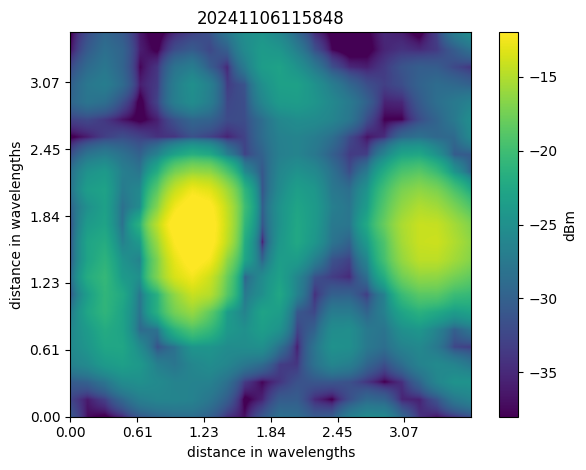
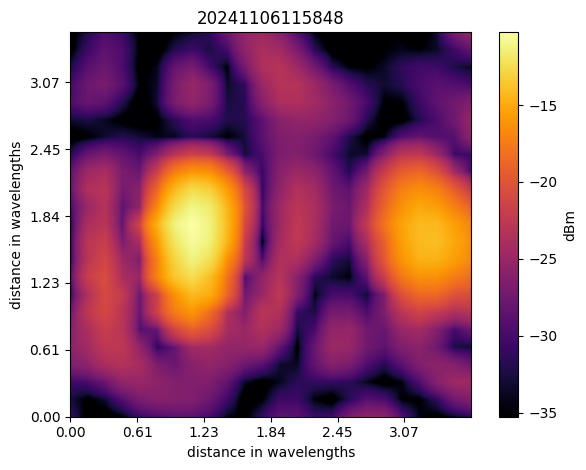
update figs

diff --git a/03_geometry_based_beamforming/031_Friis/processing/plot_2d.py b/03_geometry_based_beamforming/031_Friis/processing/plot_2d.py
@@ -15,6 +15,8 @@ from scipy.ndimage import zoom
 
 to_plot = ["20241106115848"]  # "bf-ceiling-grid",
 
+cmap = "inferno"
+
 log_heatmap = np.zeros(len(to_plot)).tolist()
 
 wavelen = 3e8 / 920e6
@@ -53,10 +55,10 @@ for i, tp in enumerate(to_plot):
     plt.title(tp)
     upsampled_heatmap = zoom(heatmap, zoom=zoom_val, order=1)
     plt.imshow(
-        10 * np.log10(upsampled_heatmap) + 10,  # + 10 to account for 
-        vmin=-48 + 10,
-        vmax=-22 + 10,
-        cmap="viridis",
+        10 * np.log10(upsampled_heatmap) + 10,  # + 10 to account for
+        vmin=np.max(10 * np.log10(upsampled_heatmap) + 10)-25,
+        vmax=None,
+        cmap=cmap,
         origin="lower",
     )
     plt.gca().set_xticks(
@@ -73,14 +75,16 @@ for i, tp in enumerate(to_plot):
     plt.xlabel("distance in wavelengths")
     plt.ylabel("distance in wavelengths")
     fig.tight_layout()
-    plt.savefig(f"../results/{tp}/heatmap-dBm.png", bbox_inches="tight")
+    plt.savefig(
+        f"../results/{tp}/heatmap-dBm.png", bbox_inches="tight", transparent=True
+    )
     # plt.show()
 
     fig, ax = plt.subplots()
     plt.title(tp)
     upsampled_heatmap = zoom(heatmap, zoom=zoom_val, order=1)
     p = ax.imshow(
-        upsampled_heatmap * 1000 * 10, vmin=0.001, vmax=80, cmap="viridis", origin="lower"
+        upsampled_heatmap * 1000 * 10, cmap=cmap, origin="lower"
     )  # * 10 to account for the cable loss
     ax.set_xticks(
         zoom_val * np.arange(len(xi))[::4],
@@ -98,7 +102,9 @@ for i, tp in enumerate(to_plot):
     ax.set_xlabel("distance in wavelengths")
     ax.set_ylabel("distance in wavelengths")
     fig.tight_layout()
-    plt.savefig(f"../results/{tp}/heatmap-uW.png", bbox_inches="tight")
+    plt.savefig(
+        f"../results/{tp}/heatmap-uW.png", bbox_inches="tight", transparent=True
+    )
     plt.show()
 
 

diff --git a/02_reciprocity_based_WPT/processing/plot_2d.py b/02_reciprocity_based_WPT/processing/plot_2d.py
@@ -71,13 +71,15 @@ for i, tp in enumerate(to_plot):
     plt.xlabel("distance in wavelengths")
     plt.ylabel("distance in wavelengths")
     fig.tight_layout()
-    plt.savefig(f"../results/{tp}/heatmap-dBm.png", bbox_inches="tight")
+    plt.savefig(
+        f"../results/{tp}/heatmap-dBm.png", bbox_inches="tight", transparent=True
+    )
     # plt.show()
 
     fig, ax = plt.subplots()
     plt.title(tp)
     upsampled_heatmap = zoom(heatmap, zoom=zoom_val, order=1)
-    p = ax.imshow(upsampled_heatmap * 1000 * 10, vmax=80, vmin=0.001,  cmap="viridis", origin="lower") # * 10 to account for the cable loss
+    p = ax.imshow(upsampled_heatmap * 1000 * 10, cmap="viridis", origin="lower") # * 10 to account for the cable loss
     ax.set_xticks(
         zoom_val * np.arange(len(xi))[::4],
         labels=[f"{(x-xi[0])/wavelen:.2f}" for x in xi][::4],
@@ -95,7 +97,9 @@ for i, tp in enumerate(to_plot):
     ax.set_ylabel("distance in wavelengths")
     fig.tight_layout()
 
-    plt.savefig(f"../results/{tp}/heatmap-uW.png", bbox_inches="tight")
+    plt.savefig(
+        f"../results/{tp}/heatmap-uW.png", bbox_inches="tight", transparent=True
+    )
     plt.show()
 
 
